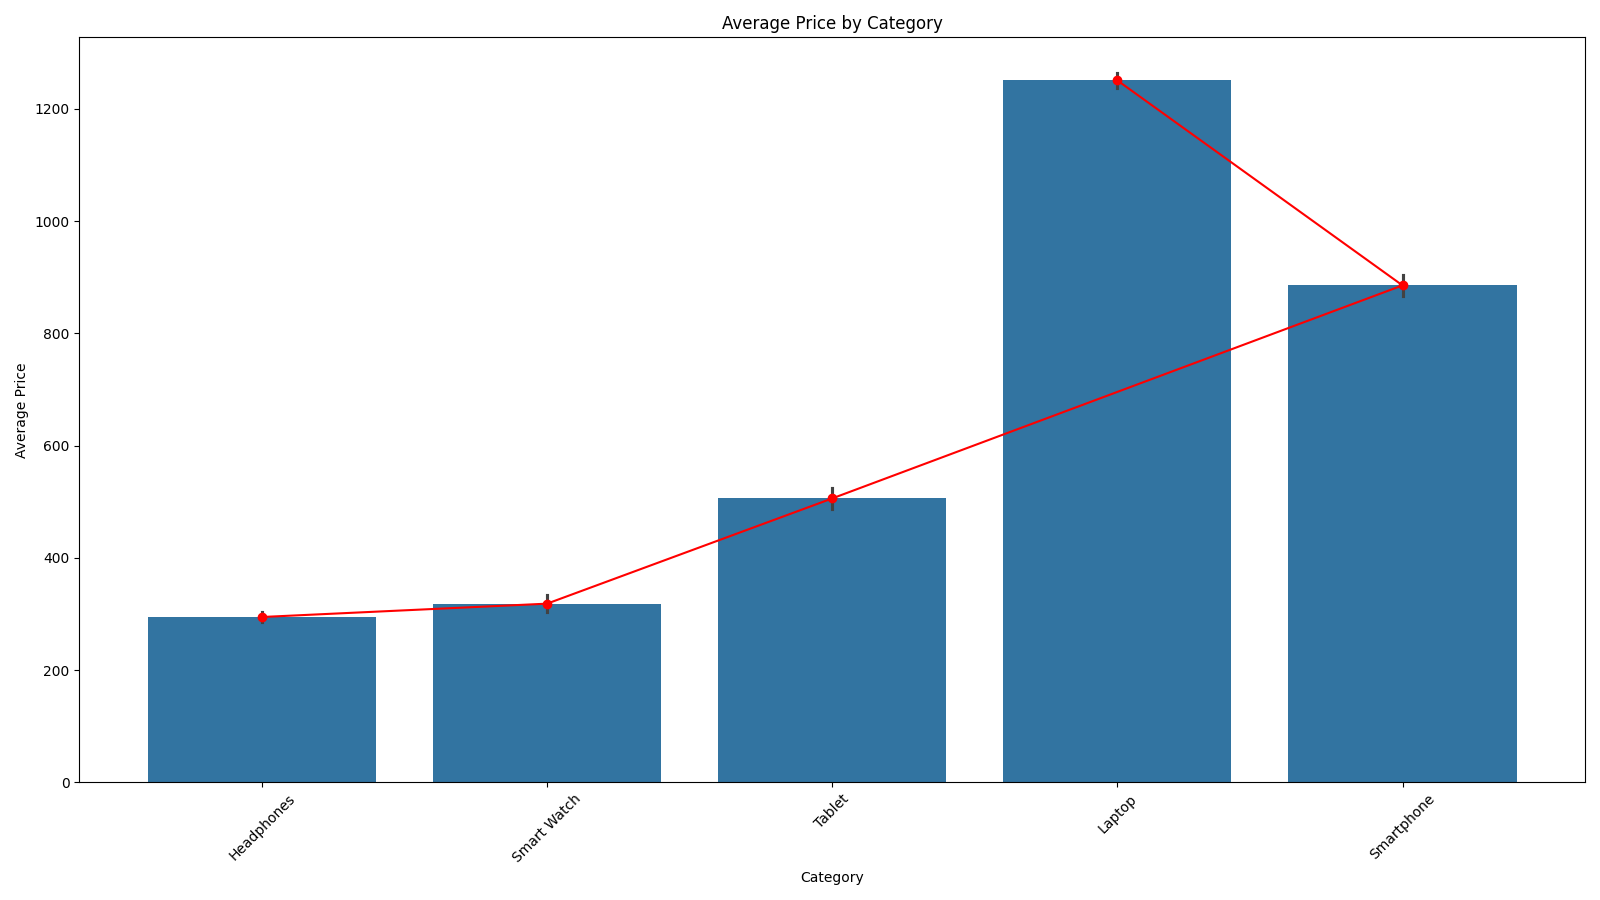
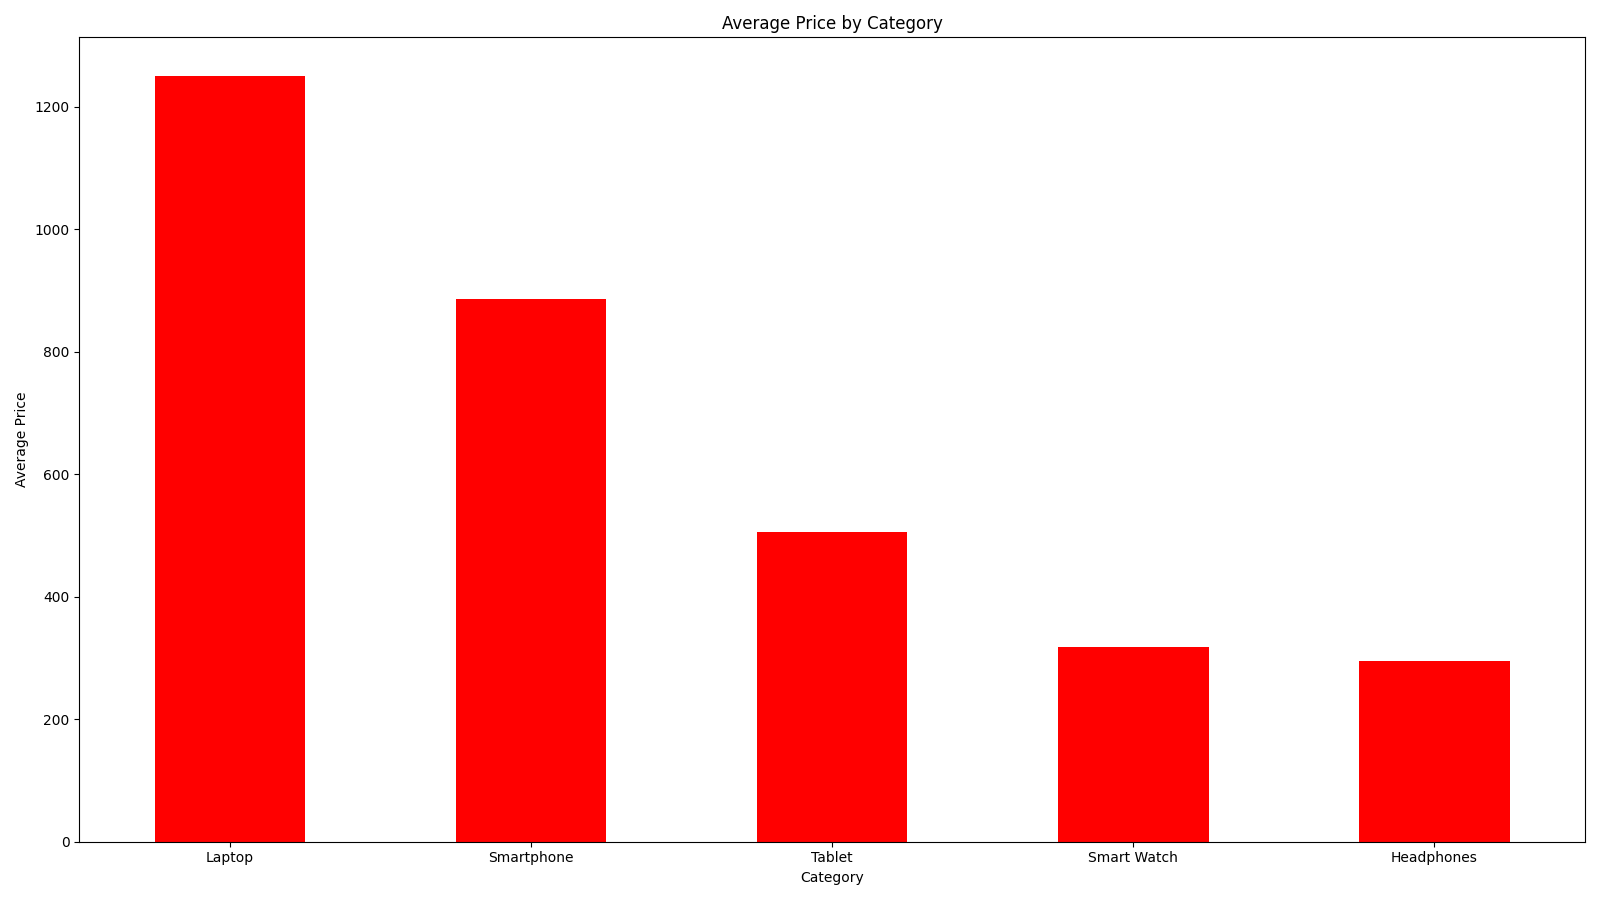
matplotlib

diff --git a/analiza-studentow-pandas.py b/analiza-studentow-pandas.py
@@ -1,6 +1,6 @@
 import pandas as pd
 import matplotlib.pyplot as plt
-import seaborn as sns
+
 df = pd.read_csv("electronics_store_sales.csv")
 
 df["product"] = df["product"].fillna("Unknown")
@@ -13,11 +13,11 @@ avg_price_by_category = df.groupby('category')['price'].mean().sort_values(ascen
 print(avg_price_by_category)
 
 plt.figure(figsize=(16, 9))
-sns.barplot(x="category", y="price", data=df)
-plt.plot(avg_price_by_category, 'o-', color='red')
+avg_price_by_category.plot(kind='bar', color='red')
 plt.title("Average Price by Category")
-plt.xlabel('Category')
-plt.ylabel('Average Price')
-plt.xticks(rotation=45)
+plt.xlabel("Category")
+plt.ylabel("Average Price")
+plt.xticks(rotation=0)
 plt.tight_layout()
 plt.savefig('avg_price_by_category.png')
+
